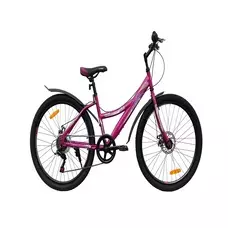
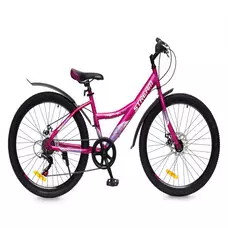
small ref

Changed region(s): [[0.0307, 0.1228, 0.9825, 0.8904]]

diff --git a/script/script.js b/script/script.js
@@ -25,6 +25,9 @@ function createProductElements(productArray, productArrayLinks, productType) {
       product.setAttribute('href', `http://catalog.sportmedia.by/index.php?route=product/product&path=${productArrayLinks[i]}`);
       product.setAttribute('target', '_blank');
 
+      const productImgBlock = document.createElement('div');
+      productImgBlock.className = `${productType}__imageBlock product__imageBlock`;
+
       const productImg = document.createElement('img');
       productImg.src = `./images/product/${productType}/product${i + 1}.jpg`;
       productImg.alt = `${productType}${i + 1}`;
@@ -33,7 +36,8 @@ function createProductElements(productArray, productArrayLinks, productType) {
       productDescription.textContent = productArray[i];
       productDescription.className = 'description';
 
-      product.appendChild(productImg);
+      productImgBlock.appendChild(productImg);
+      product.appendChild(productImgBlock);
       product.appendChild(productDescription);
    }
 }
@@ -49,13 +53,16 @@ for (let i = 0; i < bikeArray.length; i++) {
    let bike = document.querySelectorAll('.slide__bike')
    // bike[i].setAttribute('href', `http://catalog.sportmedia.by/index.php?route=product/product&path=${bikeArrayLinks[i]}`);
    // bike[i].setAttribute('target', '_blank');
+   let bikeImgBlock = document.createElement('div');
+   bikeImgBlock.className = `bike__imageBlock product__imageBlock`;
    let bikeImg = document.createElement('img');
    bikeImg.src = `./images/product/bike/product${i + 1}.webp`;
    bikeImg.alt = `bike${i + 1}`
    let bikeDescription = document.createElement('p');
    bikeDescription.textContent = `${bikeArray[i]}`;
    bikeDescription.className = 'description';
-   bike[i].appendChild(bikeImg);
+   bikeImgBlock.appendChild(bikeImg);
+   bike[i].appendChild(bikeImgBlock);
    bike[i].appendChild(bikeDescription);
 }
 

diff --git a/index.html b/index.html
@@ -11,9 +11,9 @@
 
    <link rel="preconnect" href="https://fonts.googleapis.com">
    <link rel="preconnect" href="https://fonts.gstatic.com" crossorigin>
-   <link href="https://fonts.googleapis.com/css2?family=Open+Sans:wght@300;400;600;700;800&display=swap"
+   <link defer href="https://fonts.googleapis.com/css2?family=Open+Sans:wght@300;400;600;700;800&display=swap"
       rel="stylesheet">
-   <link rel="stylesheet" href="https://cdn.jsdelivr.net/npm/swiper@8/swiper-bundle.min.css">
+   <link defer rel="stylesheet" href="https://cdn.jsdelivr.net/npm/swiper@8/swiper-bundle.min.css">
    <link rel="stylesheet" href="css/global.css">
    <link rel="shortcut icon" href="./images/favicon.ico" type="image/x-icon">
 </head>

diff --git a/css/global.css b/css/global.css
@@ -734,6 +734,19 @@ template {
   }
 }
 
+.product__imageBlock {
+  width: 268px;
+  height: 290px;
+  background-color: #fff;
+  border-radius: 15px 8px;
+}
+.product__imageBlock.scooter__imageBlock img {
+  padding: 10px 0;
+}
+.product__imageBlock.bike__imageBlock img {
+  padding: 30px 0;
+}
+
 .product__item-subtitle {
   font-size: 1em;
   font-weight: 600;
